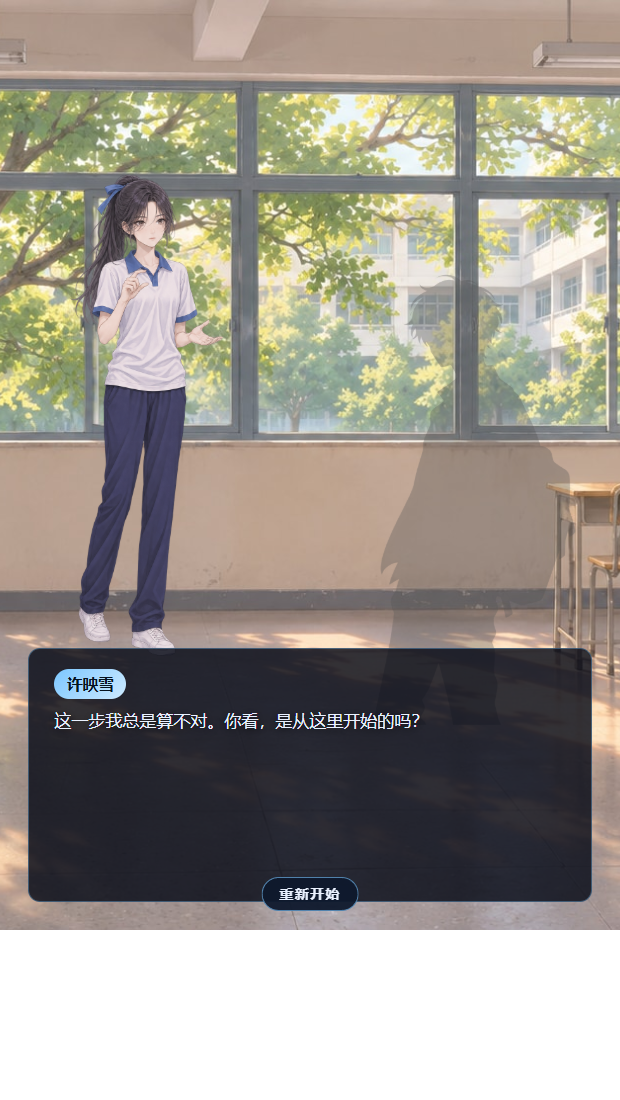
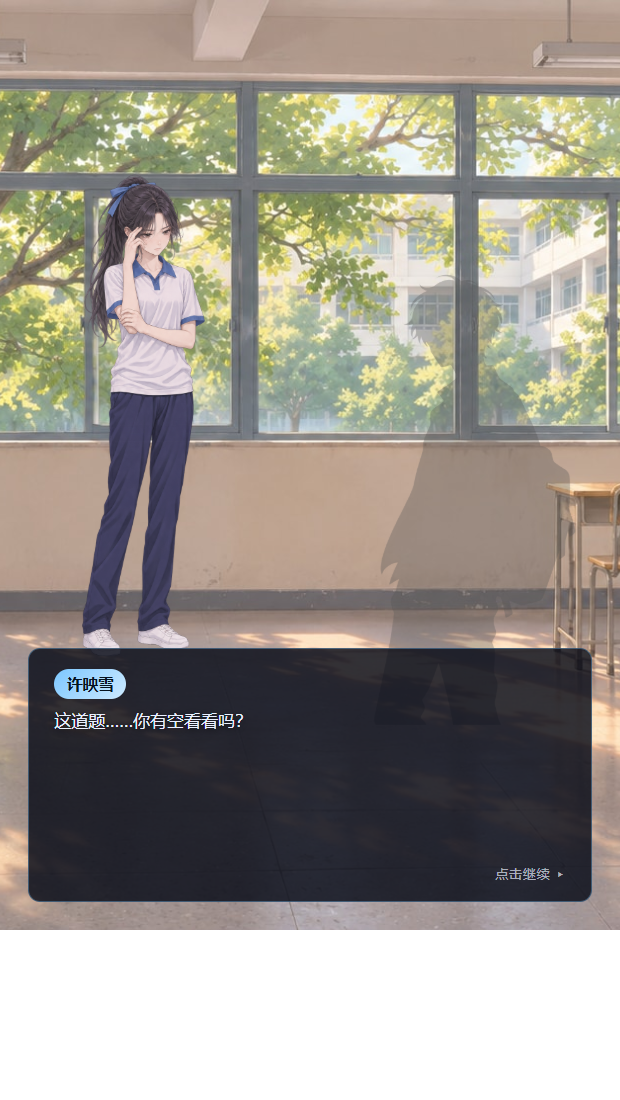
Show a continue hint before the last dialogue step

diff --git a/xuyingxue/code/dialogue-example.html b/xuyingxue/code/dialogue-example.html
@@ -15,6 +15,7 @@
 .dg-speak-player .dg-name{background:linear-gradient(135deg,#ff9ad5,#ffd3ee)}
 .dg-text{margin:0;font-size:1em;line-height:1.7;text-shadow:0 2px 8px rgba(0,0,0,.6)}
 .dg-hit{position:absolute;top:0;right:0;bottom:0;left:0;z-index:6;cursor:pointer}
+.dg-hit::after{content:"点击继续 ▸";position:absolute;right:8.6%;bottom:4.8%;color:rgba(234,241,255,.68);font-size:clamp(11px,.78em,13px);letter-spacing:.06em;white-space:nowrap;pointer-events:none}
 .dg-restart{position:absolute;left:50%;bottom:2%;transform:translateX(-50%);z-index:6;padding:.3em 1.2em;border:1px solid rgba(124,199,255,.6);border-radius:999px;background:rgba(14,24,44,.95);color:#eaf1ff;font-size:.82em;font-weight:700;letter-spacing:.1em;white-space:nowrap;cursor:pointer;animation:dg-in .35s ease 1.2s both}
 @keyframes dg-in{from{opacity:0;visibility:hidden}to{opacity:1;visibility:visible}}
 </style>

diff --git a/xuyingxue/code/preview.html b/xuyingxue/code/preview.html
@@ -17,6 +17,7 @@
 .dg-speak-player .dg-name{background:linear-gradient(135deg,#ff9ad5,#ffd3ee)}
 .dg-text{margin:0;font-size:1em;line-height:1.7;text-shadow:0 2px 8px rgba(0,0,0,.6)}
 .dg-hit{position:absolute;top:0;right:0;bottom:0;left:0;z-index:6;cursor:pointer}
+.dg-hit::after{content:"点击继续 ▸";position:absolute;right:8.6%;bottom:4.8%;color:rgba(234,241,255,.68);font-size:clamp(11px,.78em,13px);letter-spacing:.06em;white-space:nowrap;pointer-events:none}
 .dg-restart{position:absolute;left:50%;bottom:2%;transform:translateX(-50%);z-index:6;padding:.3em 1.2em;border:1px solid rgba(124,199,255,.6);border-radius:999px;background:rgba(14,24,44,.95);color:#eaf1ff;font-size:.82em;font-weight:700;letter-spacing:.1em;white-space:nowrap;cursor:pointer;animation:dg-in .35s ease 1.2s both}
 @keyframes dg-in{from{opacity:0;visibility:hidden}to{opacity:1;visibility:visible}}
 </style>

diff --git a/xuyingxue/代码规范.md b/xuyingxue/代码规范.md
@@ -4,7 +4,7 @@
 
 ## 八、原代码与样式保留要求
 
-1. 下方模板是生成组件的基准。完整复制原 CSS，一字不改；不重新设计、不精简、不换主题、不新增覆盖样式。
+1. 下方模板是生成组件的基准。完整复制下方最新版 CSS；基础样式保持原样，仅按用户要求新增 .dg-hit::after 的“点击继续 ▸”提示。不再重设计、精简、换主题或新增其他覆盖样式。
 2. 外层保持 <div class="dg">，style 为第一个子元素；保留原有 dg 系列类名。
 3. 不使用 xy-dialogue、xyd- 或其他替代命名，不增加 max-width，不用 aspect-ratio 替换 padding-top:150%。
 4. 不修改画布比例、立绘尺寸、左右位置、底部位置、对话框尺寸、颜色、字体、边框、圆角和内边距。
@@ -26,8 +26,8 @@
 5. input.dg-s 必须紧邻其后的 div.dg-step，保留相邻选择器显示逻辑。
 6. 每段第一步且仅第一步带 checked。
 7. 许映雪说话使用 dg-speak-role，玩家说话使用 dg-speak-player，亮暗效果沿用原 CSS。
-8. 普通步骤用 label.dg-hit 指向下一步；末步换成 label.dg-restart，指向本段第一步。
-9. 原点击推进、末步按钮和延迟出现逻辑不修改。
+8. 普通步骤用 label.dg-hit 指向下一步，其 ::after 自动显示“点击继续 ▸”；末步不保留 dg-hit，换成 label.dg-restart，指向本段第一步。
+9. 点击提示仅出现在非末步；原点击推进、末步按钮和 1.2 秒延迟出现逻辑不修改。
 10. 增减步骤时，只增减完整 input 与步骤 div 配对结构，同步更新 id、name、for。
 
 ## 十、生成前检查
@@ -36,7 +36,7 @@
 确认背景地点、天气和昼夜正确，使用真实专属背景文件。
 确认玩家图每一步都保留，链接、位置和尺寸与参考模板一致。
 确认许映雪名牌正确，{{user}} 变量原样保留。
-确认 style 与下方模板逐字一致，只替换允许的素材与文字内容。
+确认 style 与下方最新版模板逐字一致，非末步有点击提示，末步只保留延迟出现的重新开始；只替换允许的素材与文字内容。
 确认步骤编号唯一，首步 checked，label 指向有效。
 确认每步台词不超过建议容量，长台词已拆步。
 确认组件插在正文中间，前后仍有充分正文，未代替玩家做决定。
@@ -68,6 +68,7 @@
 .dg-speak-player .dg-name{background:linear-gradient(135deg,#ff9ad5,#ffd3ee)}
 .dg-text{margin:0;font-size:1em;line-height:1.7;text-shadow:0 2px 8px rgba(0,0,0,.6)}
 .dg-hit{position:absolute;top:0;right:0;bottom:0;left:0;z-index:6;cursor:pointer}
+.dg-hit::after{content:"点击继续 ▸";position:absolute;right:8.6%;bottom:4.8%;color:rgba(234,241,255,.68);font-size:clamp(11px,.78em,13px);letter-spacing:.06em;white-space:nowrap;pointer-events:none}
 .dg-restart{position:absolute;left:50%;bottom:2%;transform:translateX(-50%);z-index:6;padding:.3em 1.2em;border:1px solid rgba(124,199,255,.6);border-radius:999px;background:rgba(14,24,44,.95);color:#eaf1ff;font-size:.82em;font-weight:700;letter-spacing:.1em;white-space:nowrap;cursor:pointer;animation:dg-in .35s ease 1.2s both}
 @keyframes dg-in{from{opacity:0;visibility:hidden}to{opacity:1;visibility:visible}}
 </style>

diff --git a/xuyingxue/README.md b/xuyingxue/README.md
@@ -40,6 +40,6 @@
 
 此项目不要求 GitHub Pages。GitHub Raw 提供素材和代码，通常不把 HTML 当网站执行。图片实际能否显示和 radio 能否工作，仍取决于目标聊天容器允许的 HTML/CSS；示例已在隔离 iframe 中检查。
 
-示例完整保留用户参考中的 dg 样式、150% 画布、每步玩家图片和 {{user}} 变量。v00 HTML 通道的宏替换仍由平台负责，本规范不宣称已修复该兼容问题。
+示例保留用户参考中的 dg 基础样式、150% 画布、每步玩家图片和 {{user}} 变量，仅新增非末步的“点击继续 ▸”提示；最后一步仍为 1.2 秒后出现的重新开始。v00 HTML 通道的宏替换仍由平台负责，本规范不宣称已修复该兼容问题。
 
 角色与背景优先 CDN；校服“06 好奇”本次 CDN 检查返回包大小限制，规范已指定该图使用 Raw 备用地址。玩家仍使用参考的固定原始 CDN 链接。
